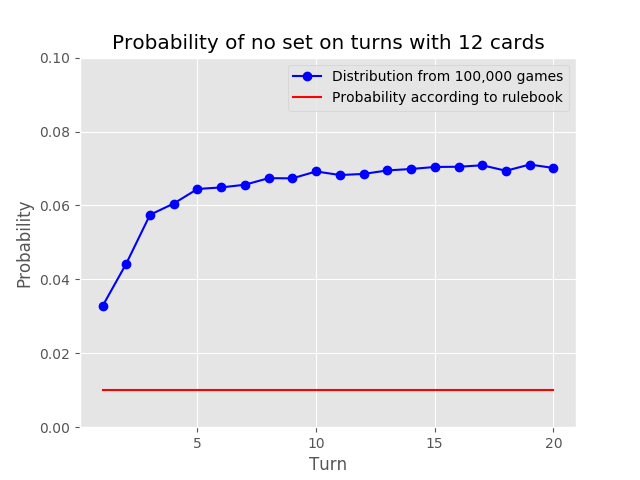
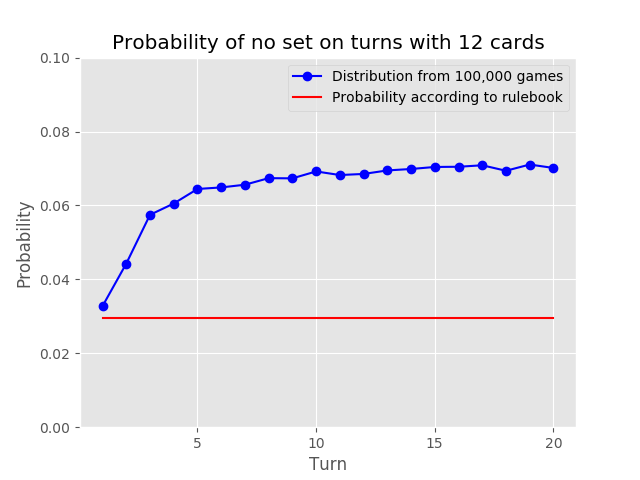
fixing probability of no set according to rulebook (rules say odds are 1:33)

Changed region(s): [[0.1562, 0.6562, 0.8438, 0.6875]]

diff --git a/plot.py b/plot.py
@@ -1,3 +1,4 @@
+from __future__ import division
 import pandas as pd
 import numpy as np
 import matplotlib.pyplot as plt
@@ -11,7 +12,7 @@ def plot_results(games):
     x = range(1, len(chance_noset)+1)
     y = chance_noset.values
     plt.plot(x,y,'b-o',label='Distribution from 100,000 games')
-    plt.plot(x,[0.01]*20,'r-',label='Probability according to rulebook')
+    plt.plot(x,[1/34]*20,'r-',label='Probability according to rulebook')
     xticks = [5,10,15,20]
     plt.xticks(xticks, xticks)
     plt.xlabel('Turn')
